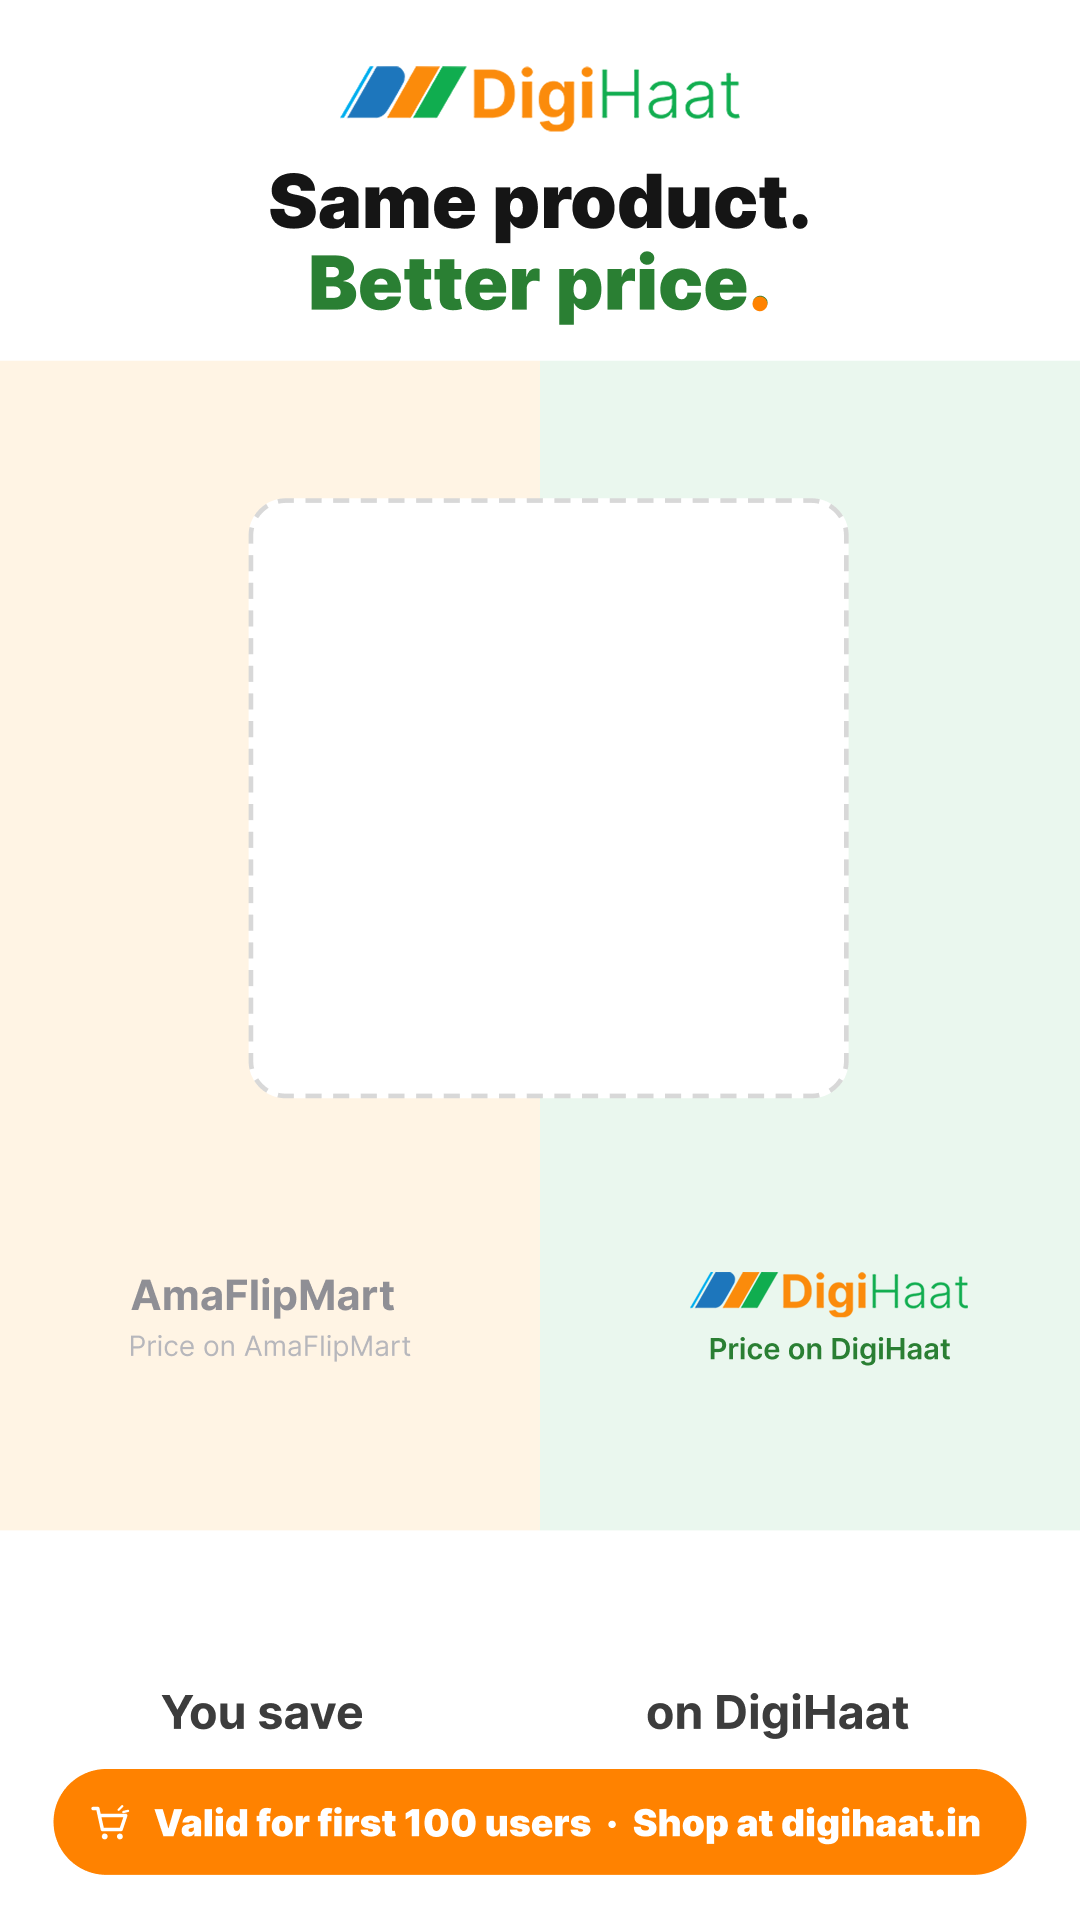
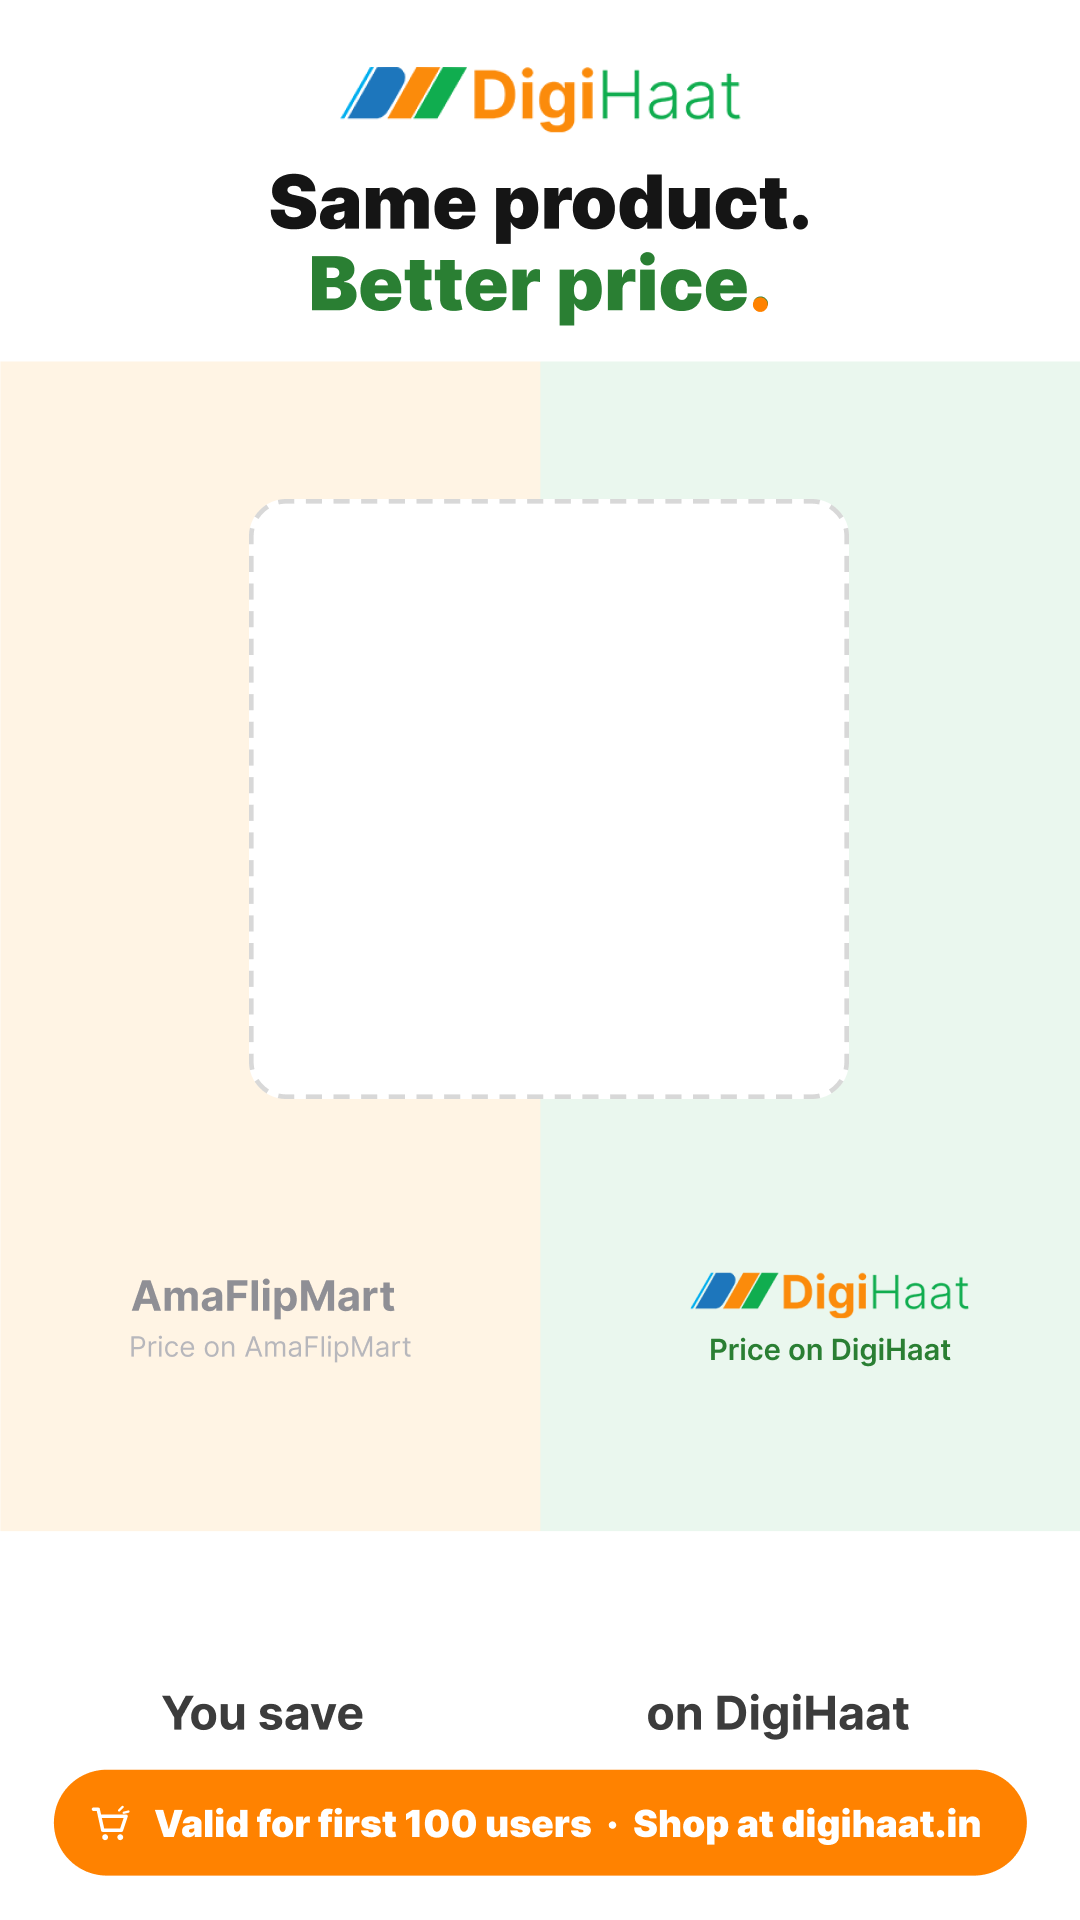
FIX: 'you save' section revamp

diff --git a/renderer.py b/renderer.py
@@ -119,12 +119,12 @@ def render_story(
 
     font_mrp = ImageFont.truetype(
         "assets/Inter Black 900.otf",
-        int(74 * SCALE)
+        74 * SCALE
     )
 
     font_deal_price = ImageFont.truetype(
         "assets/Inter Black 900.otf",
-        int(74 * SCALE)
+        74 * SCALE
     )
 
     # Product Name
@@ -165,10 +165,10 @@ def render_story(
         95.4 * SCALE,
         ImageColor.getrgb(MRP_COLOR)
     )
-    
+
     # MRP strikethrough line
-    strike_x, strike_y = 142 * SCALE, 1219 * SCALE
-    strike_w, strike_h = 180 * SCALE, 8 * SCALE
+    strike_x, strike_y = 165.62 * SCALE, 1418.28 * SCALE
+    strike_w, strike_h = 210 * SCALE, 10 * SCALE
     draw.rectangle(
         [strike_x, strike_y, strike_x + strike_w, strike_y + strike_h],
         fill=ImageColor.getrgb(MRP_COLOR)
@@ -185,15 +185,22 @@ def render_story(
         ImageColor.getrgb(DEAL_PRICE_COLOR)
     )
 
-    # You Save
-    savings_text = format_savings(old_price, new_price)
-    if savings_text:
-        save_box = (368.62 * SCALE, 1684.28 * SCALE, 273 * SCALE, 58 * SCALE)
+    # You Save — covers the background's baked-in "You save ... on DigiHaat" text
+    # with the full dynamic sentence, since the new box sits on top of it.
+    savings_amount = format_savings(old_price, new_price)
+    if savings_amount:
+        draw.rectangle(
+            [0, 1670 * SCALE, BASE_WIDTH * SCALE, 1760 * SCALE],
+            fill=(255, 255, 255)
+        )
+
+        save_box = (127.62 * SCALE, 1692.28 * SCALE, 827 * SCALE, 50 * SCALE)
+        savings_text = f"You save {savings_amount} on DigiHaat"
         font_save = get_fitted_font(
             draw,
             savings_text,
             "assets/Inter Black 900.otf",
-            int(46.55 * SCALE),
+            47 * SCALE,
             save_box[2]
         )
         draw_centered_text(
